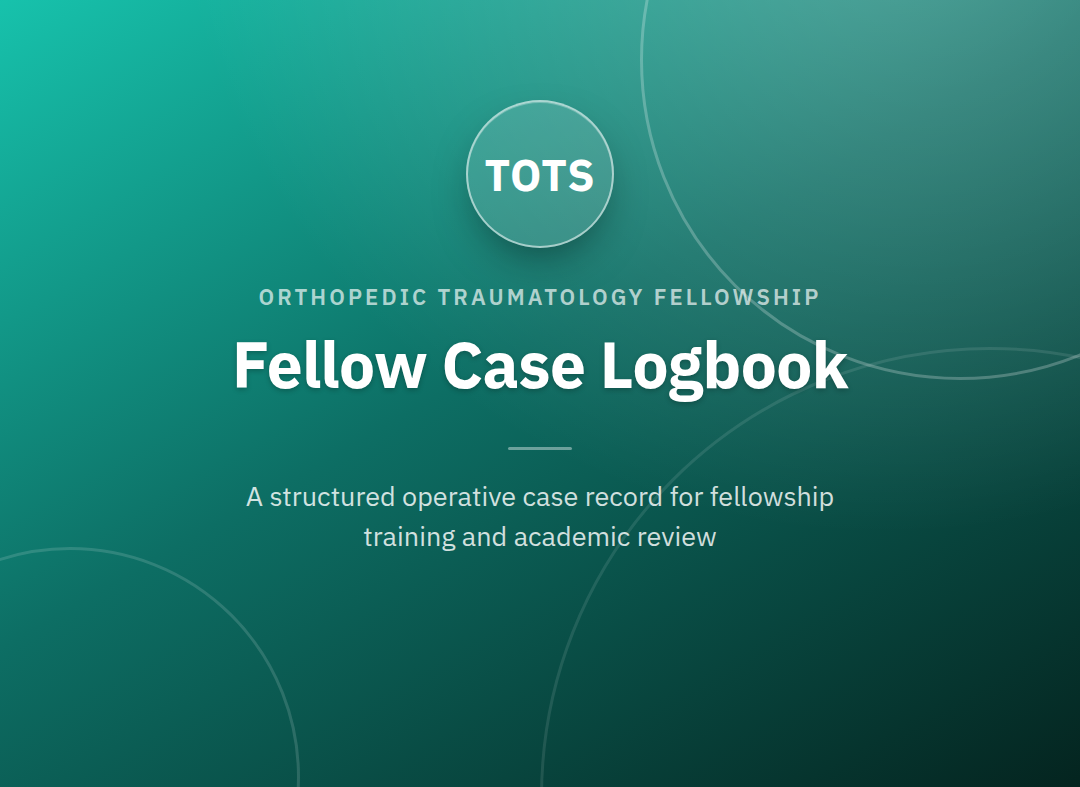
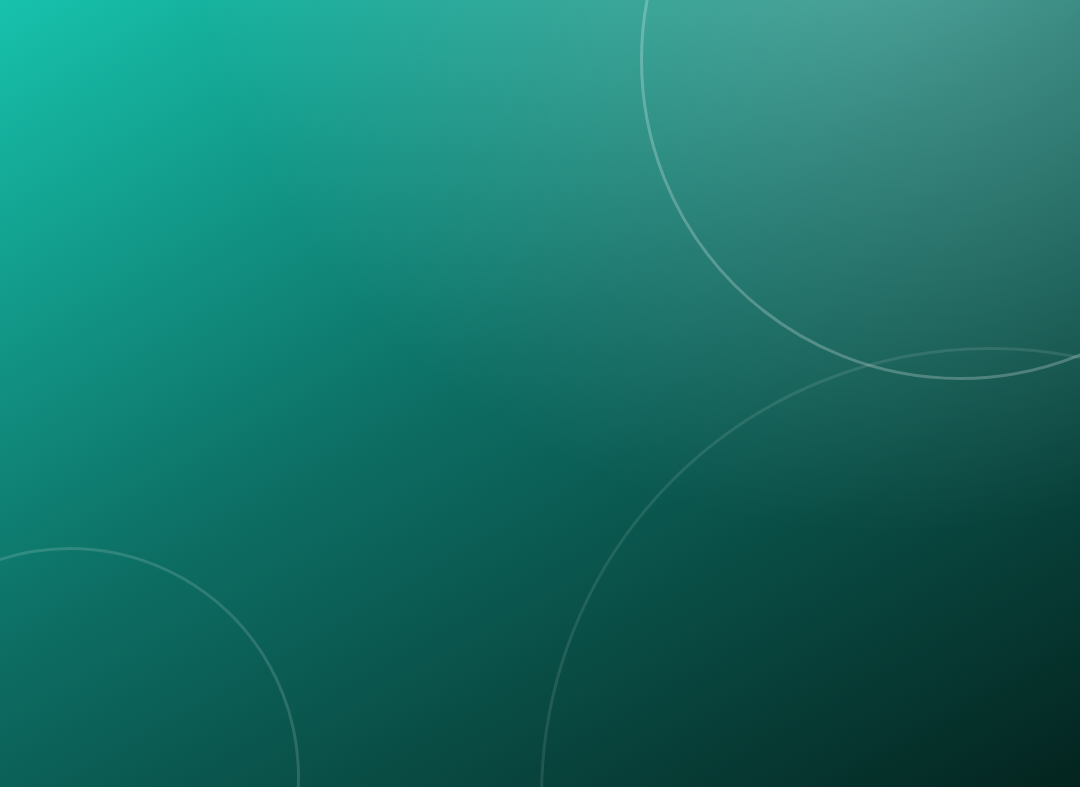
Simplify cover photo to background only
Removed the TOTS seal, title, subtitle, and divider — just the teal
gradient + decorative rings now, matching the rich menu's brand language
with no text or other components.

diff --git a/line-oa/README.md b/line-oa/README.md
@@ -100,13 +100,11 @@ can be regenerated the same way.
 
 ## Cover photo
 
-[`cover-photo.png`](./cover-photo.png) — 1080×787px, ~500KB (well under
+[`cover-photo.png`](./cover-photo.png) — 1080×787px, ~430KB (well under
 LINE's 3MB limit), shown on the Official Account's profile page.
 
-Same brand language as the rich menu (teal gradient, decorative rings) plus
-a "TOTS" seal/monogram, title, and a short academic-toned subtitle. Content
-is centered with a clear margin at the bottom — LINE overlays the OA's
-circular profile photo there, so nothing essential sits in that zone.
+Background only — same brand language as the rich menu (teal gradient,
+decorative rings), no text or other components.
 
 **To upload:** LINE Developers Console → your channel → **Messaging API**
 tab → **LINE Official Account settings** (or the OA Manager at